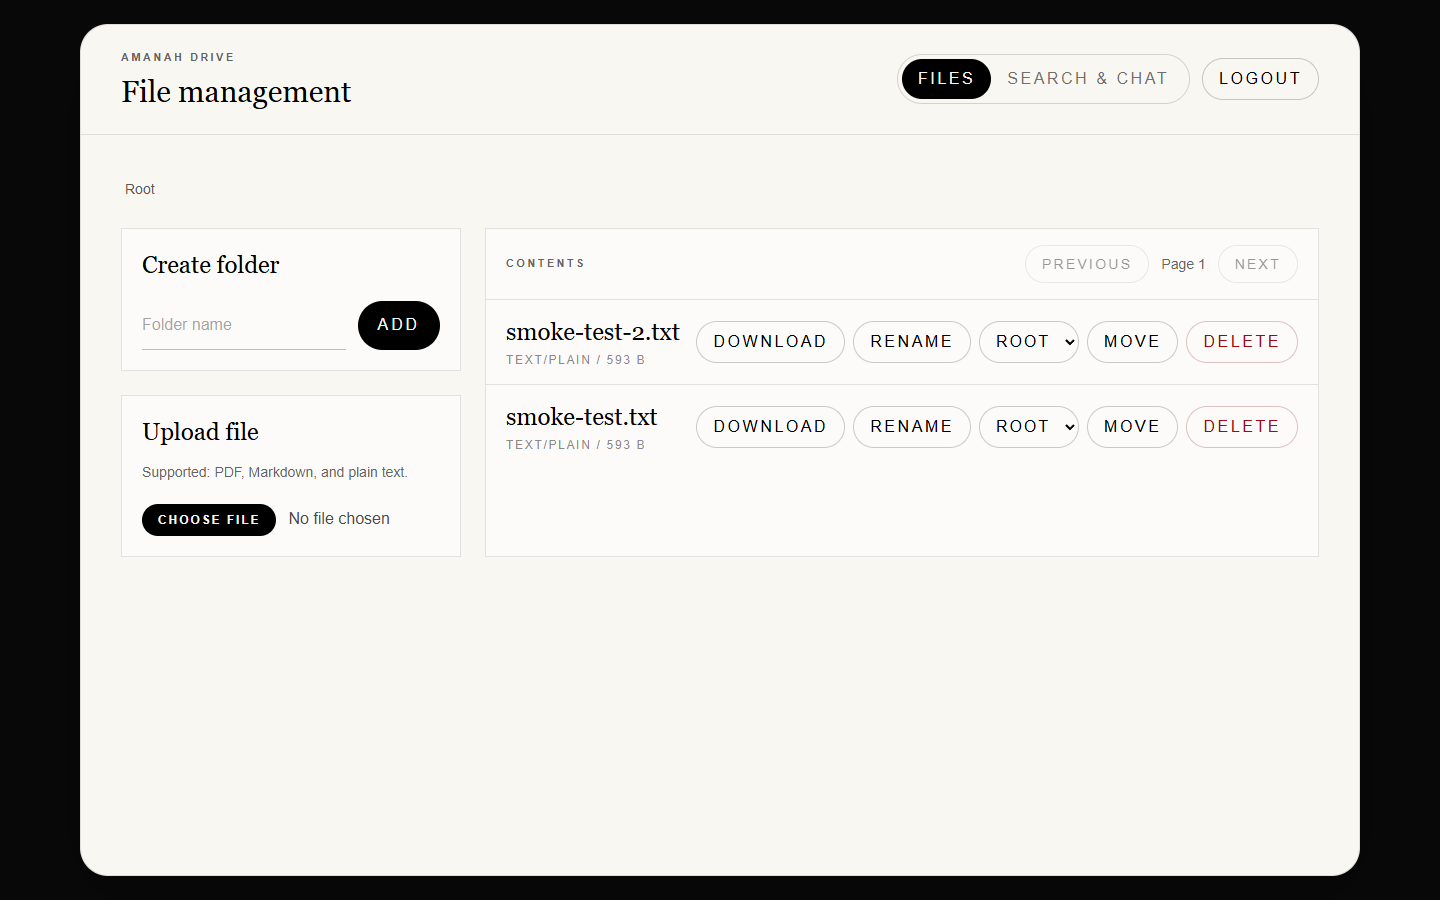
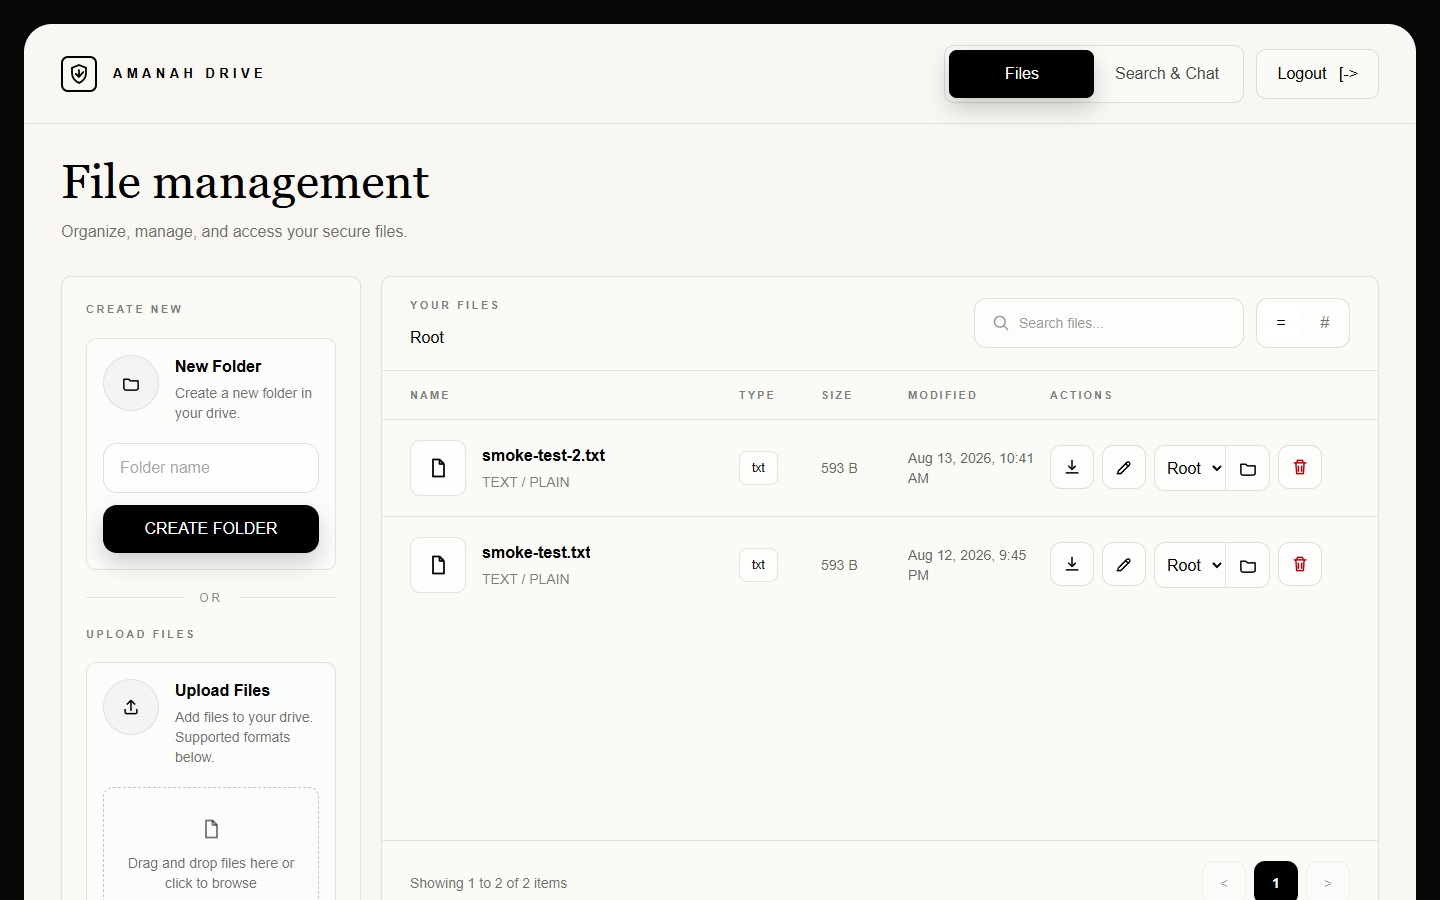
Update changelog and drive screenshots for Phase 13 redesign
Replace the stale docs/screenshots/drive-files.png and
drive-search-chat.png (old interim styling) with real captures of the
redesigned dashboard, taken against the live stack with real search
and chat results. Add the Phase 13 changelog entry for the drive
dashboard redesign.

diff --git a/CHANGELOG.md b/CHANGELOG.md
@@ -90,3 +90,10 @@
 - Replaced internal task handoff documents with this changelog.
 - Updated README, architecture, API reference, AI service contract, and ADR index to match the implemented system.
 - Added ADR 0007 for the OpenAPI, health-probe, and job-claiming decisions.
+- Duplicated the system architecture, document processing, and RAG chat flow diagrams into `docs/architecture.md` so the reference is self-contained.
+
+### Phase 13 - Drive Dashboard Redesign
+
+- Rebuilt the authenticated `/drive` dashboard (file management and Search & Chat views) to match a supplied visual design, replacing the interim styling carried over from Phase 6.
+- Kept all existing behavior unchanged: folder/file CRUD, upload validation, pagination, semantic search, chat with citations, and conversation state.
+- Extended the same visual language to mobile with stacked panels rather than shrinking the desktop layout.
